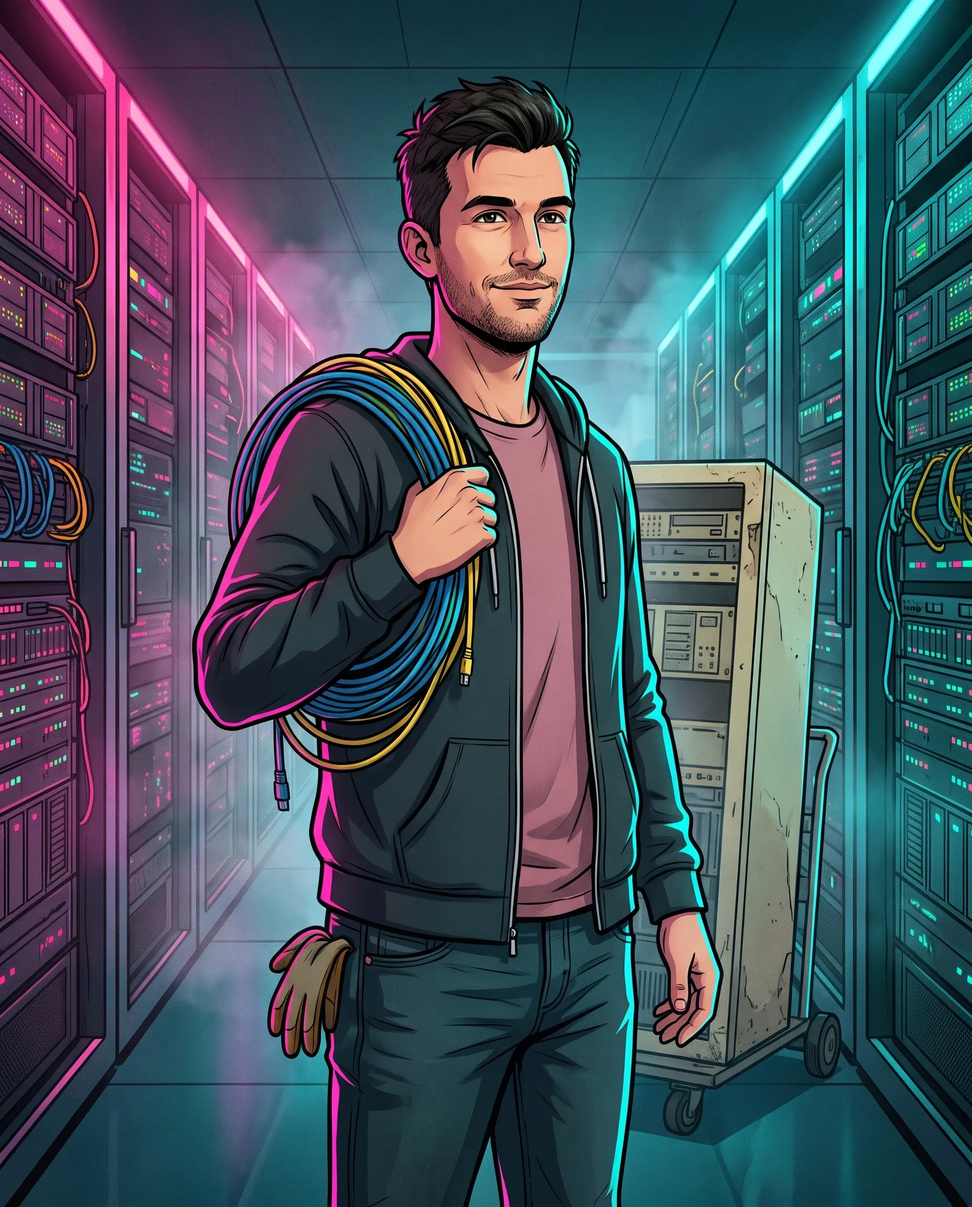
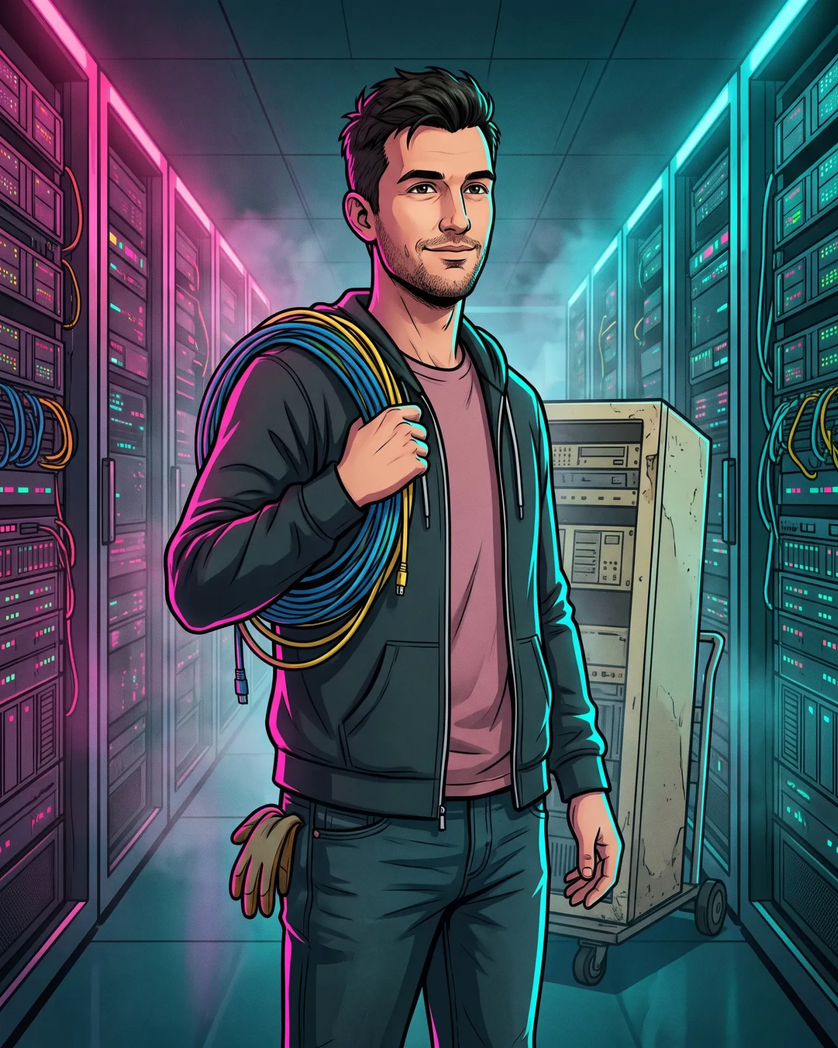
Wire in the final scene art and Love's updated portrait
Resize and recompress the delivered images to the sizes the site
serves (the folder drops from ~13 MB to 5.5 MB) and remove a duplicate
square. Mission art arrived in portrait, so mission cards now run the
image down one side at full height, alternating sides, with a 4:3 crop
on small screens.

Every asset is now listed in FINAL, so the generator only rebuilds the
OG image. Docs updated to say all art is final.

Claude-Session: https://claude.ai/code/session_018yPaJ2XsFTQLv4c9bHUDz9

diff --git a/src/app/components/site/cards.tsx b/src/app/components/site/cards.tsx
@@ -23,27 +23,32 @@ function Field({ label, children }: { label: string; children: React.ReactNode }
   );
 }
 
-export function MissionCard({ mission, wide = false }: { mission: Mission; wide?: boolean }) {
+/**
+ * Mission art is portrait (3:4). On desktop the image runs down one side of
+ * the card at full height; on small screens it is a 4:3 crop above the text.
+ */
+export function MissionCard({ mission, reverse = false }: { mission: Mission; reverse?: boolean }) {
   const tone = toneStyles[mission.tone];
   return (
     <article
-      className={`card card-hover scanlines reveal flex flex-col ${wide ? "lg:flex-row" : ""}`}
+      className={`card card-hover scanlines reveal flex flex-col lg:min-h-[30rem] ${reverse ? "lg:flex-row-reverse" : "lg:flex-row"}`}
       style={toneVar(mission.tone)}
     >
-      <div className={`relative shrink-0 overflow-hidden ${wide ? "aspect-[3/2] lg:aspect-auto lg:w-2/5" : "aspect-[3/2]"}`}>
+      <div className="relative aspect-[4/3] shrink-0 overflow-hidden lg:aspect-auto lg:w-[36%]">
         <Image
           src={mission.missionImage}
           alt={mission.imageAlt}
           fill
-          sizes={wide ? "(min-width: 1024px) 34vw, 100vw" : "(min-width: 1024px) 40vw, 100vw"}
+          sizes="(min-width: 1024px) 36vw, 100vw"
           className="object-cover"
+          style={{ objectPosition: mission.imageFocus ?? "center 58%" }}
         />
-        <div className="absolute inset-0 bg-gradient-to-t from-night-800 via-transparent to-transparent" />
+        <div className="absolute inset-0 bg-gradient-to-t from-night-800 via-transparent to-transparent lg:hidden" />
         <span className={`mono absolute left-3 top-3 border bg-night-900/80 px-2 py-1 text-[10px] uppercase tracking-[0.14em] ${tone.text} ${tone.border}`}>
           {mission.sideQuest ? "Side quest" : "Mission"}
         </span>
       </div>
-      <div className="flex flex-1 flex-col p-6">
+      <div className="flex flex-1 flex-col p-6 lg:p-8">
         <div className="flex flex-wrap items-center justify-between gap-3">
           <p className={`mono text-xs uppercase tracking-[0.14em] ${tone.text}`}>{mission.title}</p>
           <span className="flex items-center gap-2" title="Pager level: a playful difficulty rating, not a measured figure.">
@@ -51,7 +56,7 @@ export function MissionCard({ mission, wide = false }: { mission: Mission; wide?
             <Stars value={mission.severity} label={`Pager level ${mission.severity} of 5`} />
           </span>
         </div>
-        <h3 className="display mt-3 text-3xl sm:text-4xl">{mission.missionTitle}</h3>
+        <h3 className="display mt-3 text-3xl sm:text-4xl lg:text-5xl">{mission.missionTitle}</h3>
         <dl className="mt-5 flex-1 space-y-4">
           <Field label="Briefing">{mission.briefing}</Field>
           <div>

diff --git a/src/app/components/site/site-data.ts b/src/app/components/site/site-data.ts
@@ -632,6 +632,8 @@ export type Mission = {
   objective: string;
   reward: string;
   missionImage: string;
+  /** CSS object-position for the cropped views of the portrait art. */
+  imageFocus?: string;
   imageAlt: string;
   meta: string;
   tone: AccentTone;
@@ -655,7 +657,7 @@ export const missions: Mission[] = [
     reward: platformPillar.candidateFocus,
     missionImage: `${assetBase}/mission-platform.webp`,
     imageAlt:
-      "Illustration of a harbor at dusk where cranes stack glowing containers into neat clusters.",
+      "Illustration of Stockholm's harbor at sunset where gantry cranes stack glowing containers into neat clusters.",
     meta: "kind: platform · scope: cloud-foundations",
     tone: "cyan",
   },
@@ -670,7 +672,7 @@ export const missions: Mission[] = [
     reward: devopsPillar.candidateFocus,
     missionImage: `${assetBase}/mission-devops.webp`,
     imageAlt:
-      "Illustration of a night-time highway interchange drawn as a delivery pipeline with green and red status lights.",
+      "Illustration of a night-time highway interchange drawn as a delivery pipeline, with green gates along the lanes and one red.",
     meta: "kind: delivery · scope: code-to-production",
     tone: "orange",
   },
@@ -704,7 +706,7 @@ export const missions: Mission[] = [
     reward: aiPillar.candidateFocus,
     missionImage: `${assetBase}/mission-ai.webp`,
     imageAlt:
-      "Illustration of fireflies over the archipelago at dusk flowing through a glowing gate before reaching the city.",
+      "Illustration of a swarm of fireflies over the archipelago at dusk passing through a glowing gate and leaving in ordered lines toward the city.",
     meta: "kind: ai-rollout · human-in-the-loop: true",
     tone: "violet",
   },
@@ -718,6 +720,7 @@ export const missions: Mission[] = [
     objective: workScenarios[2].summary,
     reward: productPillar.candidateFocus,
     missionImage: `${assetBase}/mission-tools.webp`,
+    imageFocus: "center 72%",
     imageAlt:
       "Illustration of a neon workshop where engineers assemble tools from glowing modular blocks.",
     meta: "kind: side-quest · scope: tools-and-integrations",

diff --git a/src/app/components/site/home/Missions.tsx b/src/app/components/site/home/Missions.tsx
@@ -3,8 +3,6 @@ import { missions, motto } from "@/app/components/site/site-data";
 import { LogRain, SectionHeading } from "@/app/components/site/ui";
 
 export default function Missions() {
-  const main = missions.filter((mission) => !mission.sideQuest);
-  const side = missions.filter((mission) => mission.sideQuest);
   return (
     <section id="services" className="section section-glow halftone-top">
       <LogRain />
@@ -15,14 +13,9 @@ export default function Missions() {
           title="Mission"
           description="Platform engineering, DevOps, SRE and practical AI rollout. Every mission below is a kind of engagement we actually take on, with the stack you would work in and what you would get better at."
         />
-        <div className="mt-14 grid gap-6 lg:grid-cols-2">
-          {main.map((mission) => (
-            <MissionCard key={mission.id} mission={mission} />
-          ))}
-        </div>
-        <div className="mt-6">
-          {side.map((mission) => (
-            <MissionCard key={mission.id} mission={mission} wide />
+        <div className="mt-14 space-y-6">
+          {missions.map((mission, index) => (
+            <MissionCard key={mission.id} mission={mission} reverse={index % 2 === 1} />
           ))}
         </div>
         <p className="reveal mt-12 text-center">

diff --git a/src/app/styleguide/page.tsx b/src/app/styleguide/page.tsx
@@ -120,9 +120,9 @@ export default function Styleguide() {
       </Block>
 
       <Block title="Mission card">
-        <div className="grid gap-6 lg:grid-cols-2">
+        <div className="space-y-6">
           <MissionCard mission={missions[2]} />
-          <MissionCard mission={missions[3]} />
+          <MissionCard mission={missions[3]} reverse />
         </div>
       </Block>
 

diff --git a/docs/scene-image-prompts.md b/docs/scene-image-prompts.md
@@ -1,6 +1,11 @@
-# Stockholm On-Call: copy-paste prompts for the remaining placeholders
+# Stockholm On-Call: copy-paste prompts for the scene art
 
-These are the images on this branch that are still labelled placeholders. Each
+**All of these images have now been generated and are in place.** The prompts
+are kept for regenerating or replacing one. The mission images were delivered
+in portrait (3:4) and the cards are built for that, so ask for 3:4 there, not
+the 3:2 written in the blocks.
+
+These were the images on this branch that were labelled placeholders. Each
 block is **complete on its own**: paste one block into the image model
 (Gemini, GPT-image, Midjourney, Flux) and generate. Do not mix blocks.
 
@@ -36,21 +41,21 @@ game character, regenerate it.
 
 | Done | File | Ratio | Size |
 |---|---|---|---|
-| [ ] | `mission-platform.webp` | 3:2 | 1800×1200 |
-| [ ] | `mission-devops.webp` | 3:2 | 1800×1200 |
-| [ ] | `mission-sre.webp` | 3:2 | 1800×1200 |
-| [ ] | `mission-ai.webp` | 3:2 | 1800×1200 |
-| [ ] | `mission-tools.webp` | 3:2 | 1800×1200 |
-| [ ] | `city-sunset.webp` | 21:9 | 3360×1440 |
-| [ ] | `city-night-neon.webp` | 21:9 | 3360×1440 |
-| [ ] | `loading-1.webp` | 16:9 | 1920×1080 |
-| [ ] | `loading-2.webp` | 16:9 | 1920×1080 |
-| [ ] | `loading-3.webp` | 16:9 | 1920×1080 |
-| [ ] | `loading-4.webp` | 16:9 | 1920×1080 |
-| [ ] | `loading-5.webp` | 16:9 | 1920×1080 |
-| [ ] | `newswire-header.webp` | 21:9 | 2520×1080 |
-| [ ] | `error-404.webp` | 16:9 | 1920×1080 |
-| [ ] | `key-art-grid-mobile.webp` (optional) | 9:16 | 1080×1920 |
+| [x] | `mission-platform.webp` | 3:2 | 1800×1200 |
+| [x] | `mission-devops.webp` | 3:2 | 1800×1200 |
+| [x] | `mission-sre.webp` | 3:2 | 1800×1200 |
+| [x] | `mission-ai.webp` | 3:2 | 1800×1200 |
+| [x] | `mission-tools.webp` | 3:2 | 1800×1200 |
+| [x] | `city-sunset.webp` | 21:9 | 3360×1440 |
+| [x] | `city-night-neon.webp` | 21:9 | 3360×1440 |
+| [x] | `loading-1.webp` | 16:9 | 1920×1080 |
+| [x] | `loading-2.webp` | 16:9 | 1920×1080 |
+| [x] | `loading-3.webp` | 16:9 | 1920×1080 |
+| [x] | `loading-4.webp` | 16:9 | 1920×1080 |
+| [x] | `loading-5.webp` | 16:9 | 1920×1080 |
+| [x] | `newswire-header.webp` | 21:9 | 2520×1080 |
+| [x] | `error-404.webp` | 16:9 | 1920×1080 |
+| [x] | `key-art-grid-mobile.webp` (optional) | 9:16 | 1080×1920 |
 
 ---
 

diff --git a/public/assets/stockholm-oncall/PROMPTS.md b/public/assets/stockholm-oncall/PROMPTS.md
@@ -1,20 +1,20 @@
 # Stockholm On-Call: image prompts
 
-**Status.** Final art is in place for: all crew portraits and squares,
-`key-art-grid.webp`, `hero-city.webp` (a crop of the key art, used as
-the hero's city panel) and `careers-hero.webp`. Those names are listed in
-`FINAL` in `scripts/generate-placeholders.mjs` and are never overwritten.
+**Status: all art in this folder is final.** Every file name is listed in
+`FINAL` in `scripts/generate-placeholders.mjs`, so that script no longer
+overwrites anything; it only rebuilds the OG image from the key art and the
+real logo. Remove a name from `FINAL` only if you want a labelled placeholder
+back.
 
-Everything else is still a **labelled placeholder** produced by
-`node scripts/generate-placeholders.mjs` (procedural SVG scenes):
-`key-art-grid-mobile.webp`, `city-*.webp`, `mission-*.webp`, `loading-*.webp`,
-`newswire-header.webp`, `error-404.webp`.
+Files are stored at the size the site serves, not at export size. The mission
+images were delivered in portrait (3:4) and the mission cards are laid out for
+that, so keep replacements portrait.
 
-**Copy-paste prompts for every remaining placeholder are in
+**The copy-paste prompts used for the scenes are in
 `docs/scene-image-prompts.md`** (one self-contained block per file, written for
 how each image is cropped and overlaid on the site).
 
-To ship more final art: generate each file with an image model that supports
+To replace an image: generate each file with an image model that supports
 **image reference / character consistency** (GPT-image, Midjourney `--cref`,
 Flux + IP-Adapter/LoRA), export **WebP** at the listed size and overwrite the
 file with the same name, then add that name to `FINAL` in the script so it is

diff --git a/DESIGN.md b/DESIGN.md
@@ -243,6 +243,6 @@ checklist live in `public/assets/stockholm-oncall/PROMPTS.md`.
 - Alt text says the image is an illustration and names what it shows.
 - Real event photos are never regenerated; they only get a CSS grade.
 
-Crew portraits, the key art and the careers hero are final. The remaining
-scene art is still **labelled placeholders** from
-`scripts/generate-placeholders.mjs`; `PROMPTS.md` lists which is which.
+All art is final. `scripts/generate-placeholders.mjs` lists every file in
+`FINAL` and now only rebuilds the OG image; `PROMPTS.md` and
+`docs/scene-image-prompts.md` hold the prompts for replacing one.
